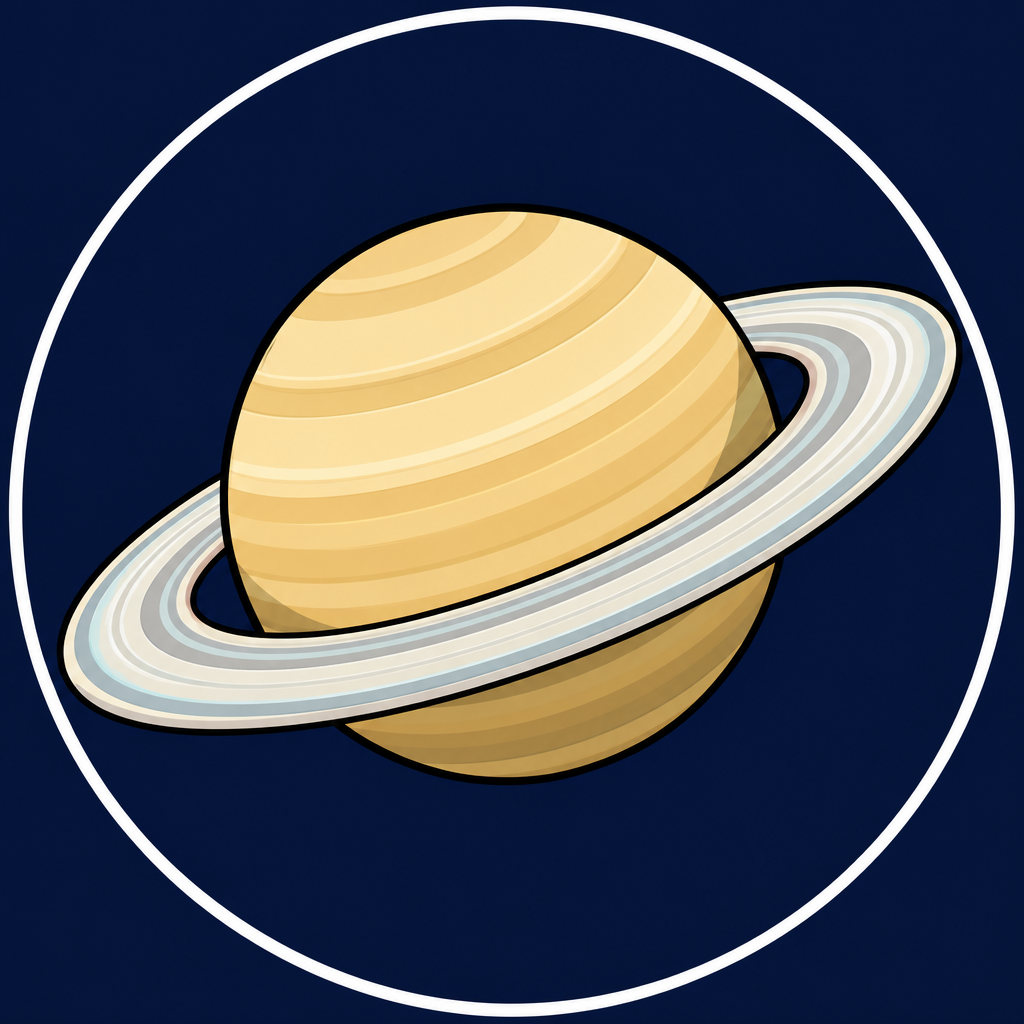
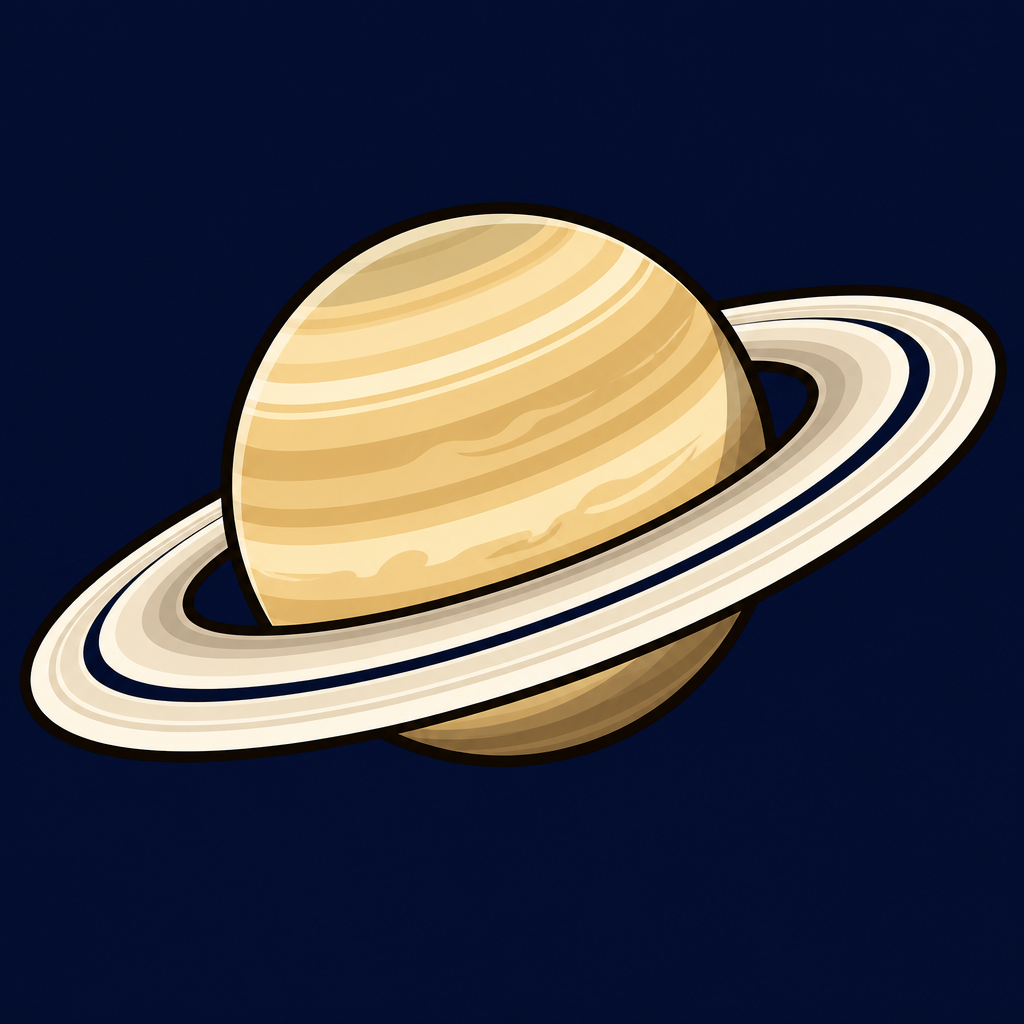
Hide map names during FIND and draw Saturn with proper rings.

diff --git a/src/BodyArt.tsx b/src/BodyArt.tsx
@@ -25,21 +25,31 @@ export function BodyArt({ id, radius, color }: Props) {
     );
   }
 
-  const pad = id === "saturn" ? 1.55 : id === "sun" ? 1.32 : 1.12;
-  const clipR = id === "saturn" ? radius * 1.62 : id === "sun" ? radius * 1.28 : radius * 1.04;
+  if (id === "saturn") {
+    const pad = 1.72;
+    return (
+      <g className="body-art body-art-saturn" data-testid="art-saturn">
+        <image
+          href={src}
+          x={-radius * pad}
+          y={-radius * pad}
+          width={radius * pad * 2}
+          height={radius * pad * 2}
+          preserveAspectRatio="xMidYMid meet"
+        />
+      </g>
+    );
+  }
+
+  const pad = id === "sun" ? 1.32 : 1.12;
+  const clipR = id === "sun" ? radius * 1.28 : radius * 1.04;
 
   return (
     <g className="body-art" data-testid={`art-${id}`}>
       <defs>
-        {id === "saturn" ? (
-          <clipPath id={clipId}>
-            <ellipse rx={clipR} ry={radius * 0.78} />
-          </clipPath>
-        ) : (
-          <clipPath id={clipId}>
-            <circle r={clipR} />
-          </clipPath>
-        )}
+        <clipPath id={clipId}>
+          <circle r={clipR} />
+        </clipPath>
       </defs>
       <g clipPath={`url(#${clipId})`}>
         <image

diff --git a/src/BodyArt.test.tsx b/src/BodyArt.test.tsx
@@ -28,6 +28,18 @@ describe("cartoon body art", () => {
     expect(image).toHaveAttribute("href", "/bodies/earth.png");
   });
 
+  it("draws Saturn with the full ring, not a sliced crop", () => {
+    const { container } = render(
+      <svg>
+        <BodyArt id="saturn" radius={40} color="#f0d48a" />
+      </svg>,
+    );
+    const image = container.querySelector("image");
+    expect(image).toHaveAttribute("href", "/bodies/saturn.png");
+    expect(image).toHaveAttribute("preserveAspectRatio", "xMidYMid meet");
+    expect(container.querySelector("clipPath")).toBeNull();
+  });
+
   it("falls back to a simple disc for moons", () => {
     const { container } = render(
       <svg>

diff --git a/src/App.test.tsx b/src/App.test.tsx
@@ -20,6 +20,7 @@ describe("Cosmica prototype", () => {
     await user.click(screen.getByRole("button", { name: "Planets" }));
     expect(screen.getByTestId("find-prompt").textContent).toMatch(/^FIND: /);
     expect(screen.getByRole("button", { name: "Mercury" })).toBeEnabled();
+    expect(document.querySelectorAll("text.label")).toHaveLength(0);
     expect(screen.queryByRole("button", { name: "Europa" })).not.toBeInTheDocument();
     expect(screen.getByRole("button", { name: "Asteroid Belt" })).toHaveAttribute(
       "aria-disabled",

diff --git a/src/SolarSystemMap.tsx b/src/SolarSystemMap.tsx
@@ -221,9 +221,6 @@ export default function SolarSystemMap({ objects, mode, onSelect }: Props) {
                   radius={laid.radius}
                   color={object.color}
                 />
-                <text className="label" y={laid.radius + 22}>
-                  {object.name}
-                </text>
               </g>
             );
           })}

diff --git a/src/App.css b/src/App.css
@@ -190,9 +190,17 @@ h1 {
   opacity: 0.35;
 }
 
+.body-art-saturn {
+  mix-blend-mode: lighten;
+}
+
 .body-dim .body-art {
   filter: grayscale(1) brightness(0.7);
   opacity: 0.55;
+}
+
+.body-dim .body-art-saturn {
+  mix-blend-mode: normal;
 }
 
 .body-dim .disc {

diff --git a/README.md b/README.md
@@ -2,7 +2,7 @@
 
 Cosmica is a browser game: an interactive 2D map of the Solar System that you learn by navigating. Find objects on the map — it is the answer interface, not a multiple-choice quiz.
 
-This version is a **Planets** prototype on the **full map**. The Sun and planets use cartoon sticker art. Moons are hidden in Planets mode so the map stays readable; they will return in Moons mode. The first view shows the Sun through Jupiter. Belts stay grayed. Only planets (plus the Sun) light up as FIND targets.
+This version is a **Planets** prototype on the **full map**. The Sun and planets use cartoon sticker art. Names stay off the map during FIND so you have to recognize the drawing. Moons are hidden in Planets mode. Belts stay grayed.
 
 ## How to run it
 

diff --git a/CHANGELOG.md b/CHANGELOG.md
@@ -7,6 +7,16 @@ and this project adheres to [Semantic Versioning](https://semver.org/spec/v2.0.0
 
 ## [Unreleased]
 
+## [0.6.2] - 2026-08-30
+
+### Changed
+
+- Planet names no longer appear on the map during FIND rounds, so the drawing is the clue.
+
+### Fixed
+
+- Saturn’s sticker shows rings going behind the globe instead of a cropped, flattened loop.
+
 ## [0.6.1] - 2026-08-30
 
 ### Changed
